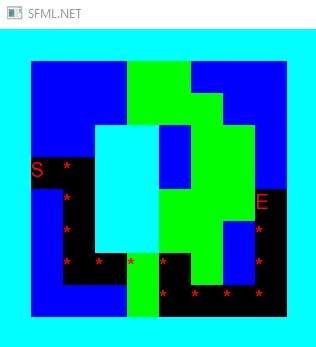
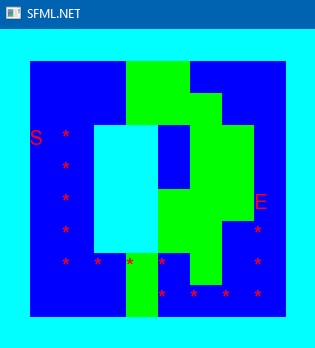
2025 02 10 044

diff --git a/Program.cs b/Program.cs
@@ -115,23 +115,18 @@ namespace ConsoleApp2
                             }
 
                         }
-
-                       /* if ((astar.start == testLocation) || (astar.end == testLocation))
+                        else 
                         {
-
                             SceneNode2D? sceneNode2D = scene?.GetSceneNode(testLocation.name);
                             if (sceneNode2D == null)
                             {
                                 Vector2f position2 = new Vector2f(0.0f, 0.0f);
-                                RectangleShape rectangleStartStop = new RectangleShape(new Vector2f(CellSize, CellSize));
-                                rectangleStartStop.FillColor = Color.White;
+                                RectangleShape rectangleShapeBlue = new RectangleShape(new Vector2f(CellSize, CellSize));
+                                rectangleShapeBlue.FillColor = Color.Blue;
 
                                 sceneNode2D = new SceneNode2D();
-                                Node2D node2D = new RectangleNode(rectangleStartStop);
-                                if (astar.start == testLocation)
-                                    node2D.setName("start" + testLocation.name);
-                                else
-                                    node2D.setName("end" + testLocation.name);
+                                Node2D node2D = new RectangleNode(rectangleShapeBlue);
+                                node2D.setName("ground" + testLocation.name);
                                 sceneNode2D.entity = node2D;
                                 sceneNode2D.name = testLocation.name;
                                 position.X = testLocation.x * CellSize;
@@ -139,7 +134,6 @@ namespace ConsoleApp2
                                 sceneNode2D.entity.setPosition(position);
 
                                 scene?.Nodes.Add(sceneNode2D);
-
                             }
                             else
                             {
@@ -149,9 +143,44 @@ namespace ConsoleApp2
 
                             }
 
+                        }
 
-                            //textt.Draw(renderTexture, renderStates);
-                        }*/
+                        /* if ((astar.start == testLocation) || (astar.end == testLocation))
+                         {
+
+                             SceneNode2D? sceneNode2D = scene?.GetSceneNode(testLocation.name);
+                             if (sceneNode2D == null)
+                             {
+                                 Vector2f position2 = new Vector2f(0.0f, 0.0f);
+                                 RectangleShape rectangleStartStop = new RectangleShape(new Vector2f(CellSize, CellSize));
+                                 rectangleStartStop.FillColor = Color.White;
+
+                                 sceneNode2D = new SceneNode2D();
+                                 Node2D node2D = new RectangleNode(rectangleStartStop);
+                                 if (astar.start == testLocation)
+                                     node2D.setName("start" + testLocation.name);
+                                 else
+                                     node2D.setName("end" + testLocation.name);
+                                 sceneNode2D.entity = node2D;
+                                 sceneNode2D.name = testLocation.name;
+                                 position.X = testLocation.x * CellSize;
+                                 position.Y = testLocation.y * CellSize;
+                                 sceneNode2D.entity.setPosition(position);
+
+                                 scene?.Nodes.Add(sceneNode2D);
+
+                             }
+                             else
+                             {
+                                 position.X = testLocation.x * CellSize;
+                                 position.Y = testLocation.y * CellSize;
+                                 sceneNode2D.entity.setPosition(position);
+
+                             }
+
+
+                             //textt.Draw(renderTexture, renderStates);
+                         }*/
 
                         if (isStart)
                         {
@@ -320,7 +349,7 @@ namespace ConsoleApp2
 
                             }
                         }
-                        else
+                    /*    else
                         {
                             SceneNode2D? sceneNode2D = scene?.GetSceneNode(testLocation.name);
                             if (sceneNode2D == null)
@@ -358,6 +387,7 @@ namespace ConsoleApp2
                             //rectangleShapeBlue.Draw(renderTexture, renderStates);
                             //Console.Write("* ");
                         }
+                  */
                     }
                     // Console.WriteLine();
                 }
@@ -815,7 +845,7 @@ namespace ConsoleApp2
                 new Location(4, 5), new Location(4, 6),
                 new Location(4, 7), new Location(4, 8),
                 new Location(5, 1), new Location(5, 2),
-               // new Location(5, 3), new Location(5, 4),
+         //       new Location(5, 3), new Location(5, 4),
                 new Location(5, 5), new Location(5, 6),
               //  new Location(5, 7), new Location(5, 8),
                 new Location(6, 2), new Location(6, 3),
@@ -828,7 +858,7 @@ namespace ConsoleApp2
             // Выполнение A*
             AStarSearch astar = new AStarSearch();
 
-            astar.start = new Location(1, 4);
+            astar.start = new Location(1, 3);
             astar.end = new Location(8, 5);
             astar.graph = grid;
 

diff --git a/Nodes/TextNode.cs b/Nodes/TextNode.cs
@@ -15,6 +15,7 @@ namespace ConsoleApp2.Nodes
 
         public void Draw(RenderTarget target, RenderStates states)
         {
+          //  states.BlendMode = BlendMode.Add;
             text1?.Draw(target, states);
         }
 
